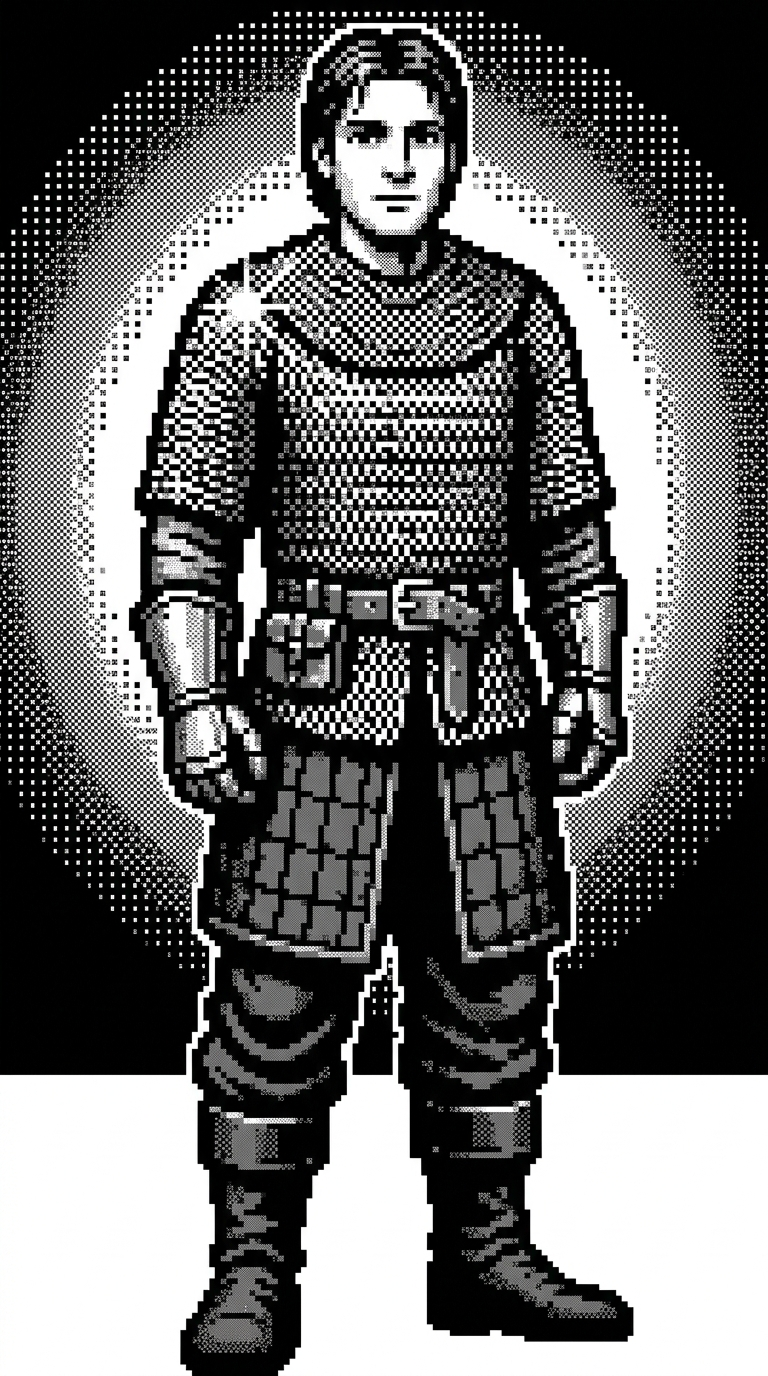
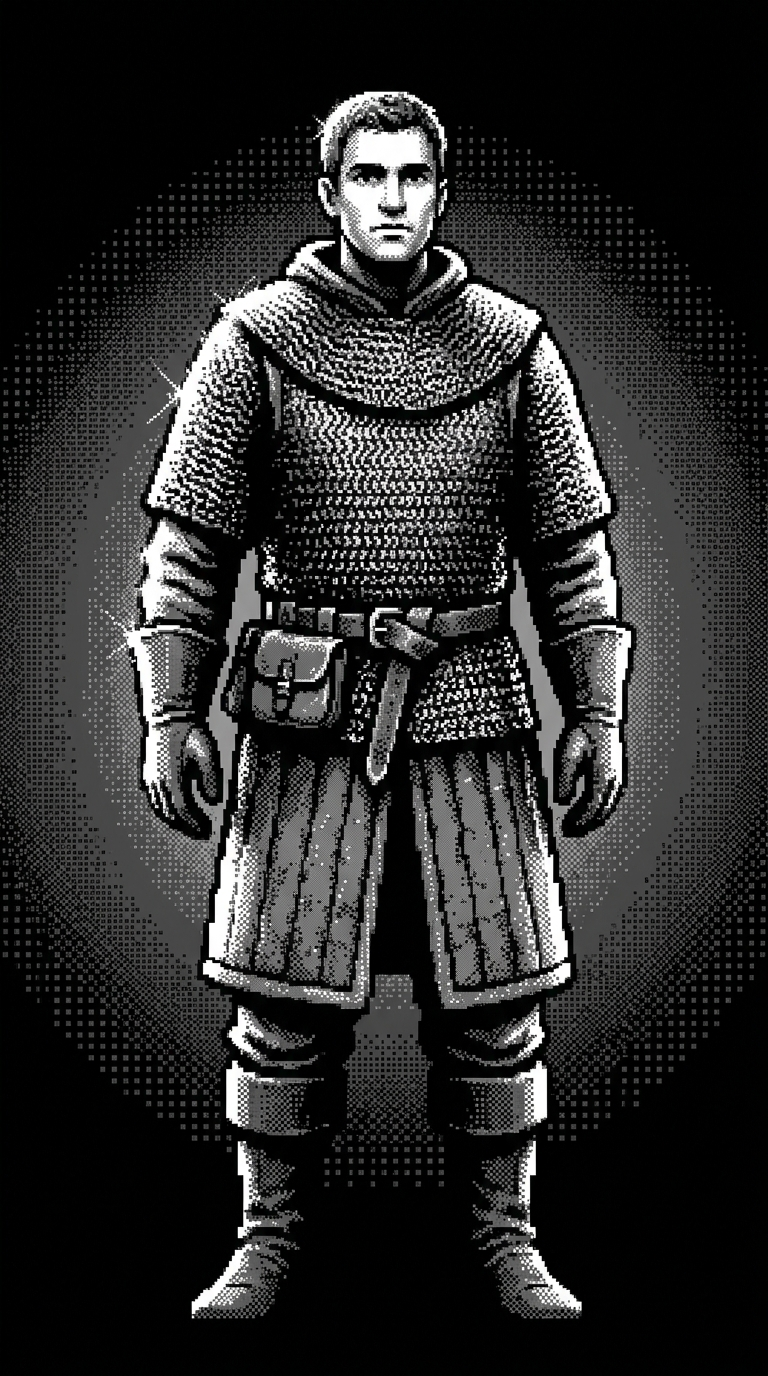
030: reroll the chain portrait (white slab floor) + the render QA harness
The first chain generation dithered its ground plane into a solid white
block under the boots; third roll reads clean head-to-boots.
tools/qa_030_shots.py drives the real engine + legacy card through
Playwright for the dojo visual pass — no worldd/Postgres needed.

diff --git a/tools/qa_030_shots.py b/tools/qa_030_shots.py
@@ -1,0 +1,146 @@
+#!/usr/bin/env python3
+"""030 visual pass — render real engine scenes to cards, screenshot them.
+
+The full dojo stack (worldd + QA Luna) needs the Postgres this machine no
+longer has; this harness drives the SAME engine and the SAME renderer the
+pane ships, locally: build a player, click through the real apply_choice
+paths, write render_scene() documents, photograph them with Playwright.
+
+Usage: python tools/qa_030_shots.py <out_dir>
+"""
+
+import os
+import sys
+
+os.environ.setdefault("ASCENT_DEV_LOCAL", "1")
+_HERE = os.path.dirname(os.path.abspath(__file__))
+ROOT = os.path.join(_HERE, "..")
+sys.path.insert(0, ROOT)
+sys.path.insert(0, os.path.join(ROOT, "tests"))
+import conftest  # noqa: E402,F401 — stubs luna_sdk
+
+from plugin_linear_ascent import economy, render  # noqa: E402
+from plugin_linear_ascent.engine import core, state  # noqa: E402
+
+OUT = os.path.abspath(sys.argv[1] if len(sys.argv) > 1 else
+                      os.path.join(ROOT, "..", "dojo", "results",
+                                   "0030-qa"))
+HTML = os.path.join(OUT, "html")
+SHOTS = os.path.join(OUT, "screenshots")
+
+WORLD = {
+    "frontier": 3,
+    "census": {"total": 7, "by_floor": {"1": 3, "3": 3, "2": 1}},
+    "warden": {"floor": 3, "hp": 43_000, "hp_max": 100_000,
+               "strikers": [{"name": "Asha"}, {"name": "Brand"}],
+               "pity": 0, "closes_in_s": 11_520,
+               "fallen_by": {"1": "Asha, Brand", "2": "Brand, Okko"}},
+    "gossip": ["Asha cleared the drowned barn run without a scratch.",
+               "a marsh wolf took a climber's pack on floor 2."],
+}
+
+
+def player(name: str) -> dict:
+    p = state.new_player(name)
+    core.current_scene(p)
+    while p["stage"] == "intro":
+        core.apply_choice(p, "1")
+    core.apply_choice(p, "human")
+    core.apply_choice(p, "warrior")
+    core.apply_choice(p, "", text="Seer")
+    return p
+
+
+def snap(name: str, scene) -> None:
+    with open(os.path.join(HTML, f"{name}.html"), "w") as f:
+        f.write(render.render_scene(scene))
+    print("html ", name)
+
+
+def main() -> None:
+    for d in (HTML, SHOTS):
+        os.makedirs(d, exist_ok=True)
+
+    # ── level 1 ─────────────────────────────────────────────────────
+    p = player("qa030-lv1")
+    snap("01-town-square-rags", core.current_scene(p))
+
+    p["_world"] = dict(WORLD)
+    p["news_day"] = -1
+    snap("02-morning-crier", core.current_scene(p))
+    core.apply_choice(p, "news_close")
+
+    p["bank"] = 1_240
+    snap("03-vault-strip", core.apply_choice(p, "vault"))
+    core.apply_choice(p, "back")
+
+    core.apply_choice(p, "lodge")
+    snap("04-keeper-talk", core.apply_choice(p, "talk"))
+    core.apply_choice(p, "back")
+
+    snap("05-gate-floor-tiles", core.apply_choice(p, "gate"))
+
+    snap("06-reel-beat1-world", core.apply_choice(p, "floor_1"))
+    snap("07-reel-beat2-warden", core.apply_choice(p, "next"))
+    snap("08-arrival", core.apply_choice(p, "next"))
+
+    snap("09-npc-talk", core.apply_choice(p, "talk"))
+
+    s = core.apply_choice(p, "hunt")
+    if not s.enemy:
+        s = core.apply_choice(p, "hunt")
+    snap("10-fight-enemy-plate", s)
+
+    # ── level ~10 ───────────────────────────────────────────────────
+    p2 = player("qa030-lv10")
+    p2["level"] = 10
+    p2["unlocked_floor"] = 10
+    p2["gold"] = 100_000
+    p2["hp"] = state.max_hp(p2)
+    armor = sorted((g for g in economy.FORGE.values()
+                    if g.slot == "armor" and 3 <= g.tier <= 4),
+                   key=lambda g: g.tier)
+    if armor:
+        p2["gear"]["armor"] = armor[0].slug
+    snap("11-town-lv10-chain", core.current_scene(p2))
+
+    p2["_world"] = dict(WORLD) | {"frontier": 10}
+    snap("12-gate-lv10", core.apply_choice(p2, "gate"))
+    core.apply_choice(p2, "floor_9")
+    while p2.get("movie_floor"):
+        core.apply_choice(p2, "1")
+    s = core.apply_choice(p2, "hunt")
+    if not s.enemy:
+        s = core.apply_choice(p2, "hunt")
+    snap("13-fight-floor9", s)
+
+    # fallen-keep reel beat (floor 2 fell to the war party)
+    p3 = player("qa030-fallen")
+    p3["unlocked_floor"] = 3
+    p3["_world"] = dict(WORLD)
+    core.apply_choice(p3, "gate")
+    core.apply_choice(p3, "floor_2")
+    snap("14-reel-fallen-keep", core.apply_choice(p3, "next"))
+
+    # ── photograph ──────────────────────────────────────────────────
+    from playwright.sync_api import sync_playwright
+    with sync_playwright() as pw:
+        browser = pw.chromium.launch(headless=True)
+        # reduced-motion sidesteps the typewriter so cards paint whole
+        page = browser.new_page(viewport={"width": 720, "height": 1200},
+                                device_scale_factor=2,
+                                reduced_motion="reduce")
+        for name in sorted(os.listdir(HTML)):
+            if not name.endswith(".html"):
+                continue
+            page.goto("file://" + os.path.join(HTML, name))
+            page.wait_for_timeout(600)
+            page.screenshot(
+                path=os.path.join(SHOTS, name[:-5] + ".png"),
+                full_page=True)
+            print("shot ", name[:-5])
+        browser.close()
+
+
+if __name__ == "__main__":
+    main()
